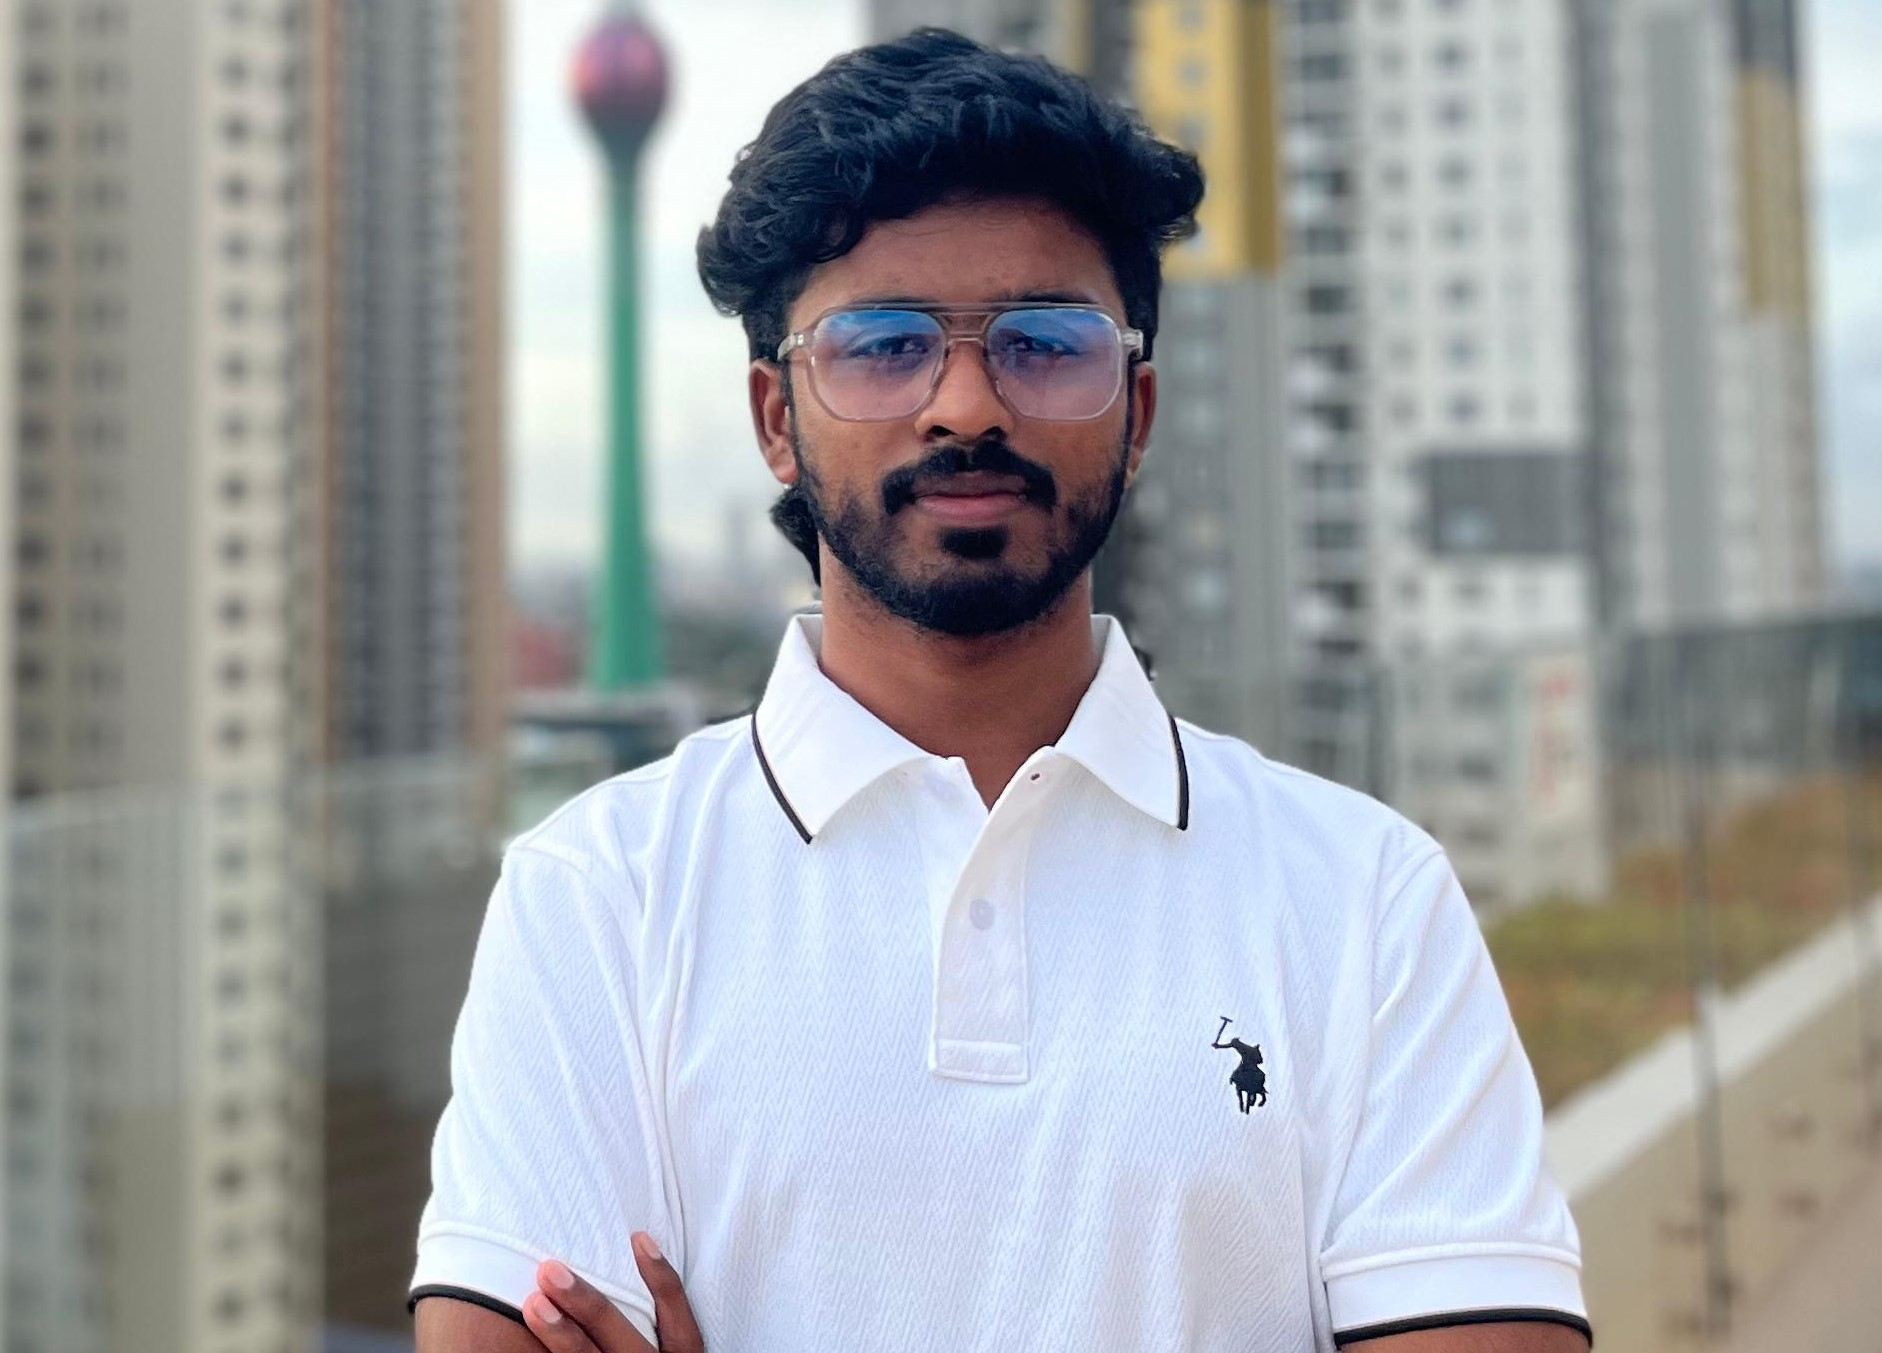
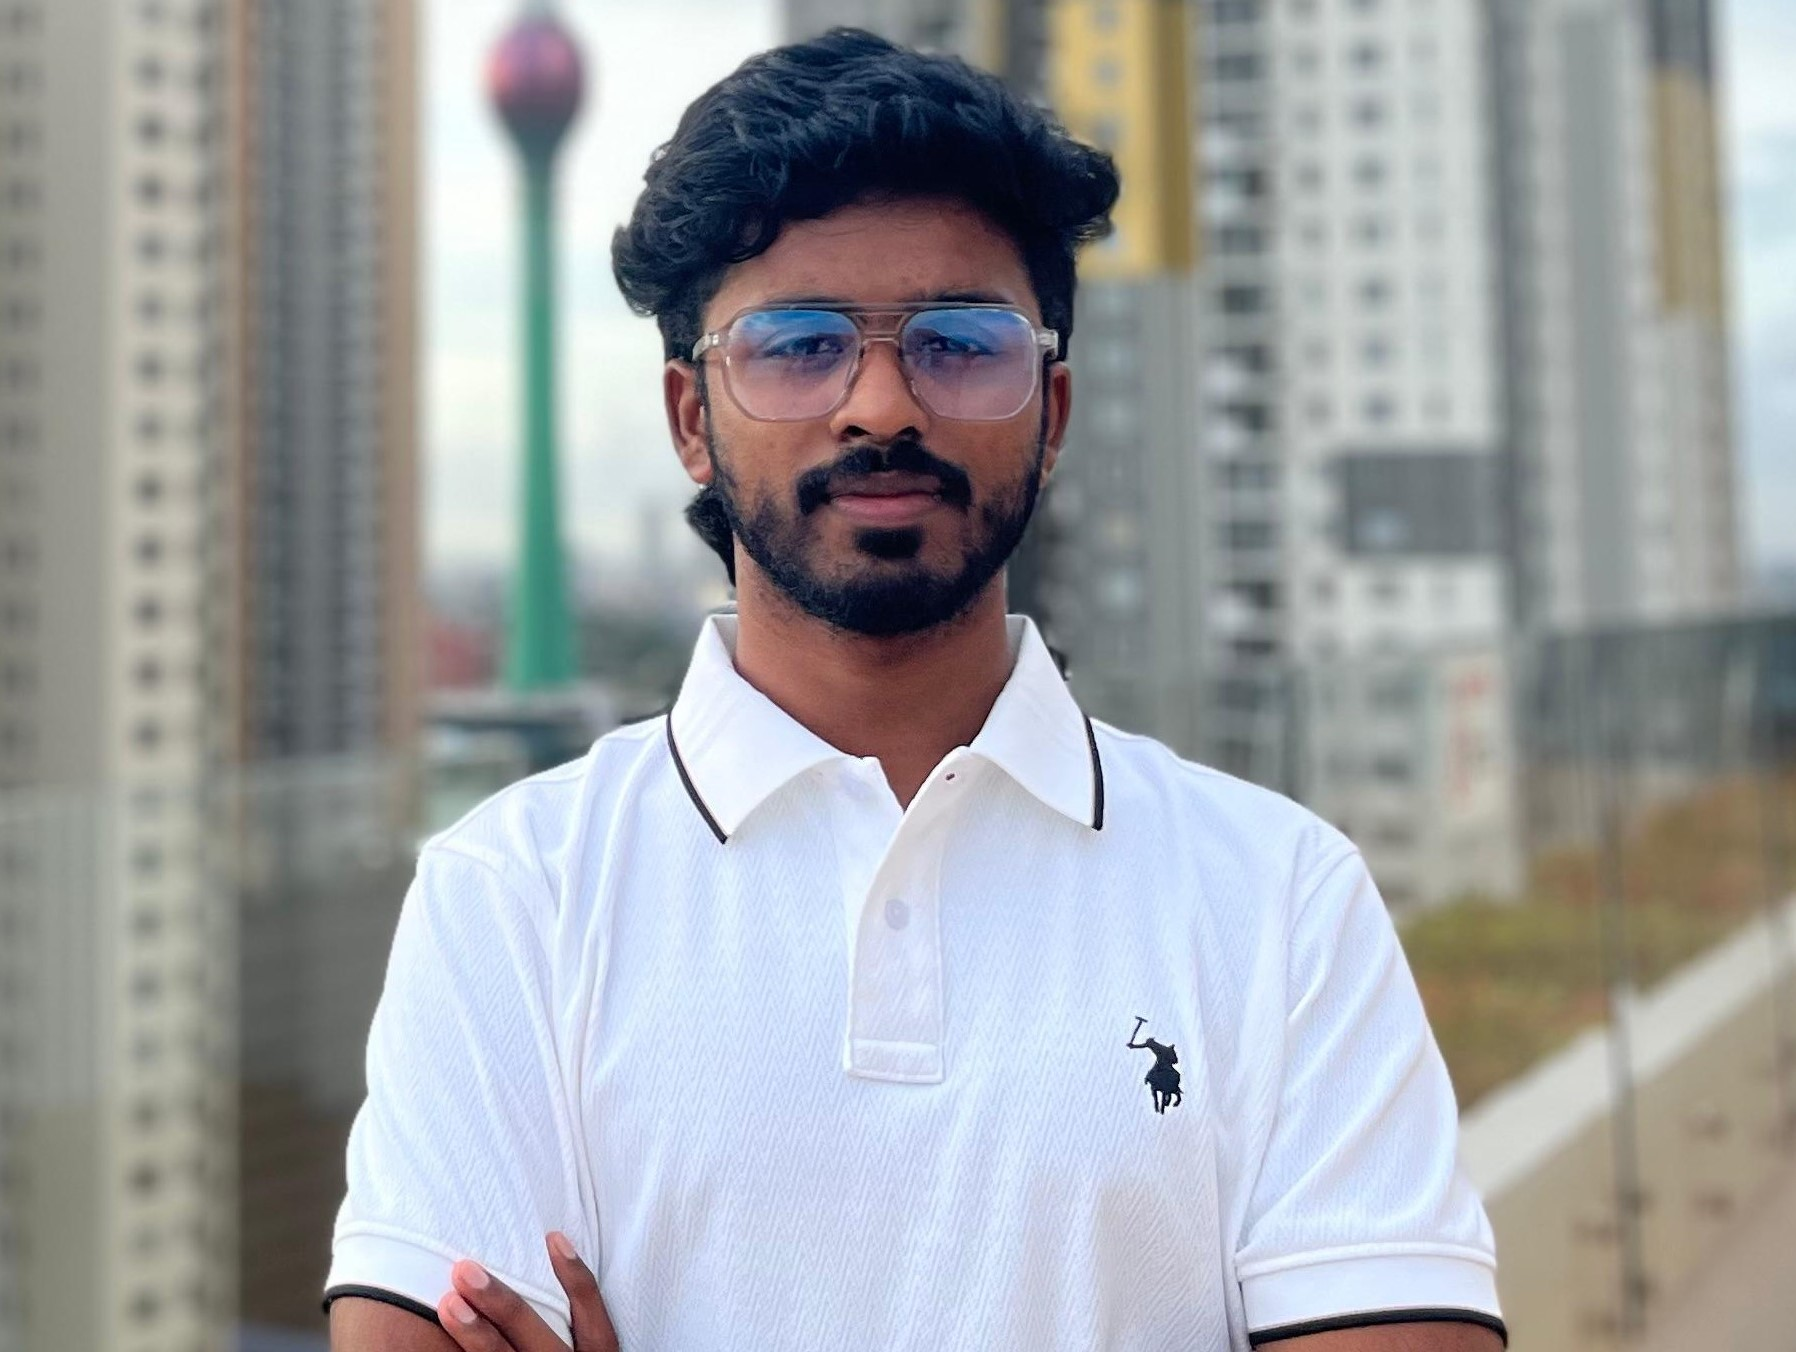
updated image

diff --git a/src/pages/Home.jsx b/src/pages/Home.jsx
@@ -1,6 +1,7 @@
 import React, { useEffect } from "react";
 import { gsap } from "gsap";
 import heroImage from "../assets/man.jpg";
+import heroMobile from "../assets/man-mobile.jpg";
 
 const Home = () => {
   useEffect(() => {
@@ -60,12 +61,34 @@ const Home = () => {
         </div>
 
         {/* ===== Section 2: Hero Image ===== */}
-          <div className="w-full relative flex justify-start items-center overflow-hidden">
+          <div className="w-full relative overflow-hidden">
+
+            {/* Mobile Only */}
+            <img
+              src={heroMobile}
+              alt="Developer"
+              className="
+                block md:hidden
+                w-full
+                h-[70vh]
+                object-cover
+                object-center
+              "
+            />
+
+            {/* Tablet + Laptop + Desktop */}
             <img
               src={heroImage}
               alt="Developer"
-              className="w-full h-[60vh] sm:h-[70vh] md:h-[80vh] lg:h-screen object-cover object-right"
+              className="
+                hidden md:block
+                w-full
+                h-[80vh] lg:h-screen
+                object-cover
+                object-center
+              "
             />
+
           </div>
 
           {/* ===== Section 3: Text Content ===== */}